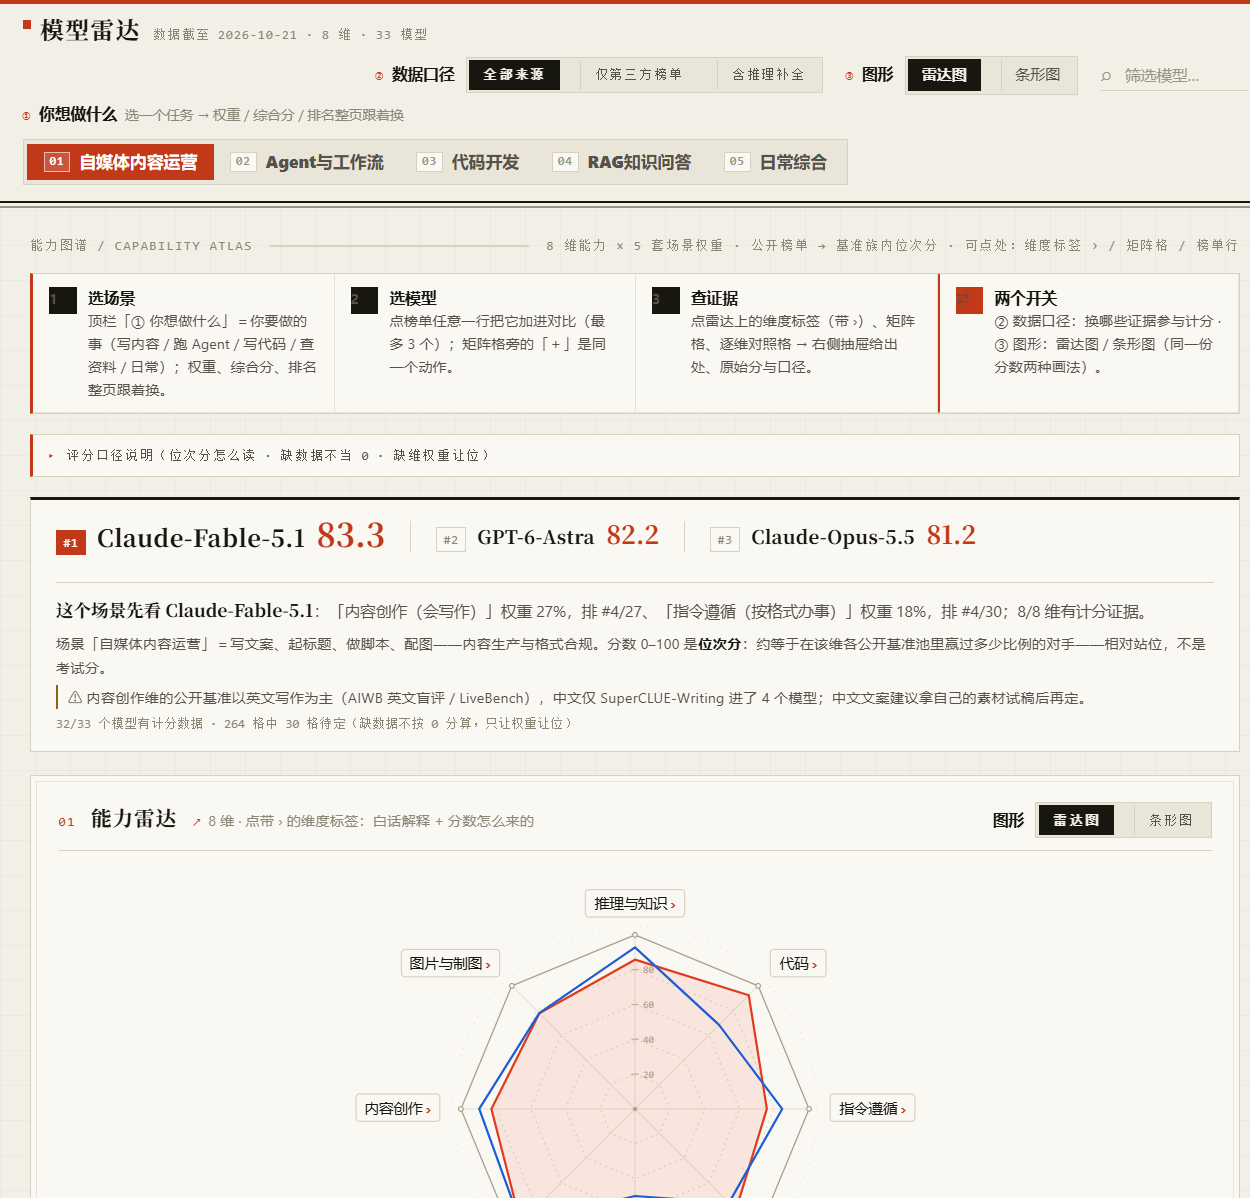
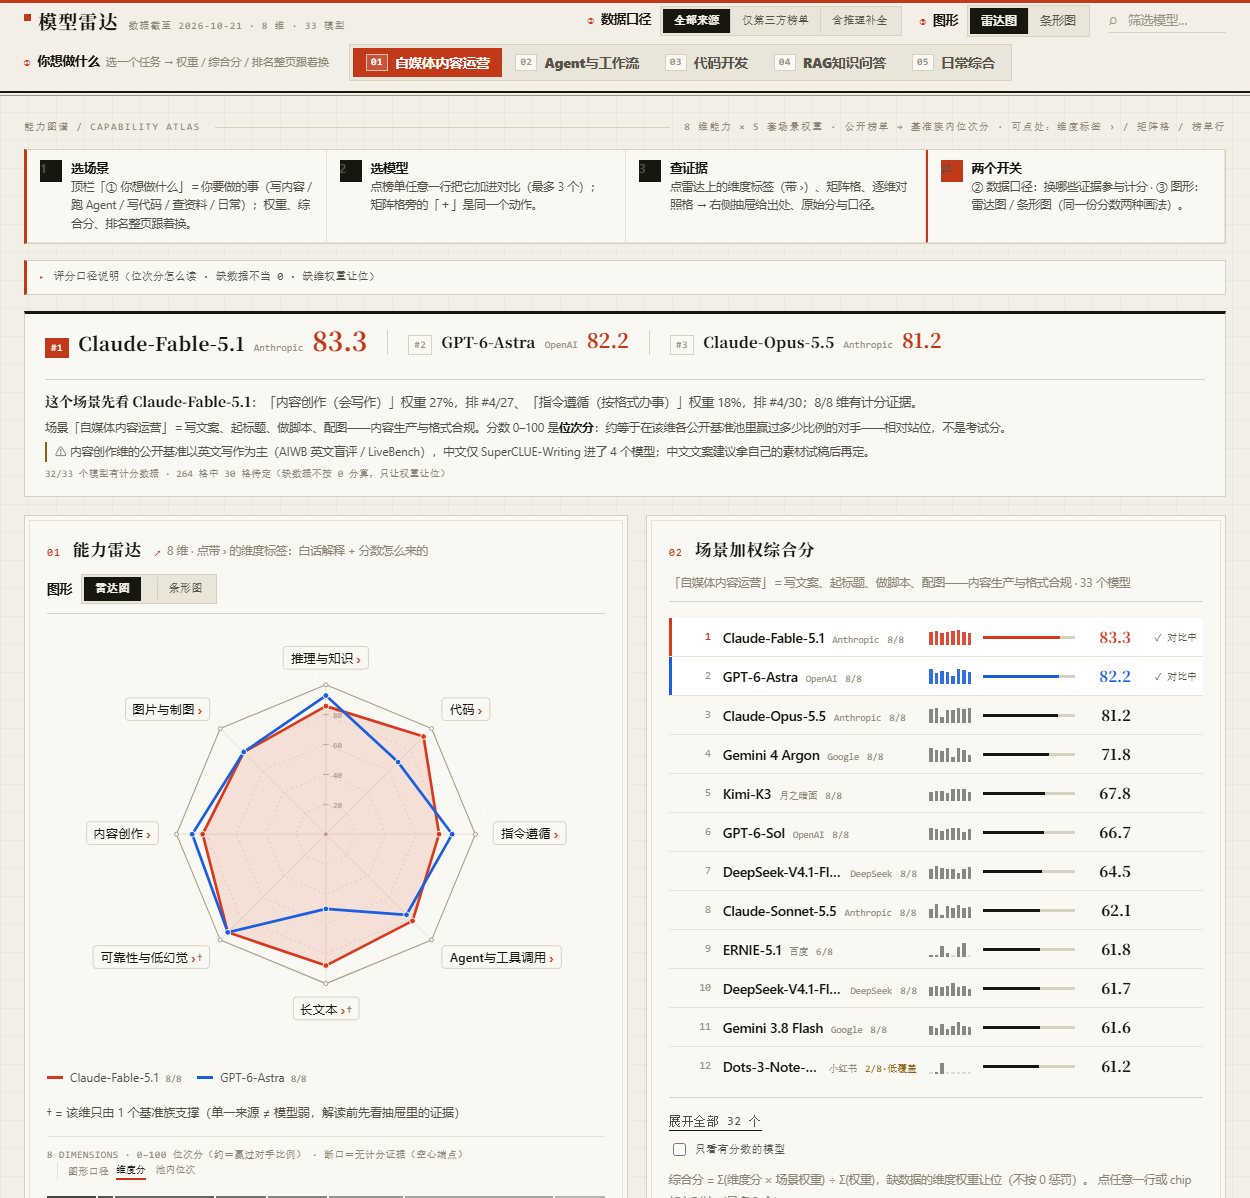
fix(ui): 条内模型名恢复白字（内联色被样式覆盖）+ 更新 README 截图
v0.22 复查时发现：条内模型名的内联颜色覆盖了 .bnm.in 的白字，红字压红条看不见。改为按落位分支设置颜色（条内白字 / 条尾模型色）。同时用新配色重拍 README 截图。

diff --git a/model-radar.html b/model-radar.html
@@ -1346,7 +1346,7 @@
         var t = el('div', 'bt'), v = el('div', 'bv');
         /* v0.22：模型名跟着条走 —— 条够长写进条里（白字），条太短就紧跟条尾（模型色） */
         var lbl = el('span', 'bnm', n);
-        lbl.style.color = c;
+        lbl.setAttribute('data-c', c);
         if (!has(m, d)) {
           t.appendChild(el('i', 'no'));
           v.className = 'bv missv';
@@ -1376,17 +1376,20 @@
     for (var q = 0; q < tracks.length; q++) {
       var tr = tracks[q], lb = tr.querySelector('.bnm');
       if (!lb) { continue; }
+      var mc = lb.getAttribute('data-c') || '';
       var noEl = tr.querySelector('i.no');
       var pct = parseFloat(tr.getAttribute('data-pct') || '0');
       var cw = tr.clientWidth, tw = lb.offsetWidth;
       if (!cw) {
         lb.className = 'bnm out';
+        lb.style.color = mc;
         lb.style.left = pct + '%';
         continue;
       }
       if (noEl) {                       /* 待定：没有条，名字跟在斜纹空位后面 */
         var nx = noEl.offsetWidth + 8;
         lb.className = 'bnm out';
+        lb.style.color = mc;
         lb.style.left = nx + 'px';
         lb.style.maxWidth = Math.max(24, cw - nx - 10) + 'px';
         continue;
@@ -1394,9 +1397,11 @@
       var barPx = cw * pct / 100;
       if (barPx >= tw + 16) {          /* 条够长：名字写进条里（白字压在色块上） */
         lb.className = 'bnm in';
+        lb.style.color = '';           /* 交给 CSS：白字 */
         lb.style.left = pct + '%';
       } else {                          /* 条太短：名字紧跟条尾（模型色，写在纸上） */
         lb.className = 'bnm out';
+        lb.style.color = mc;
         lb.style.left = pct + '%';
         lb.style.maxWidth = Math.max(24, cw - barPx - 12) + 'px';
       }
